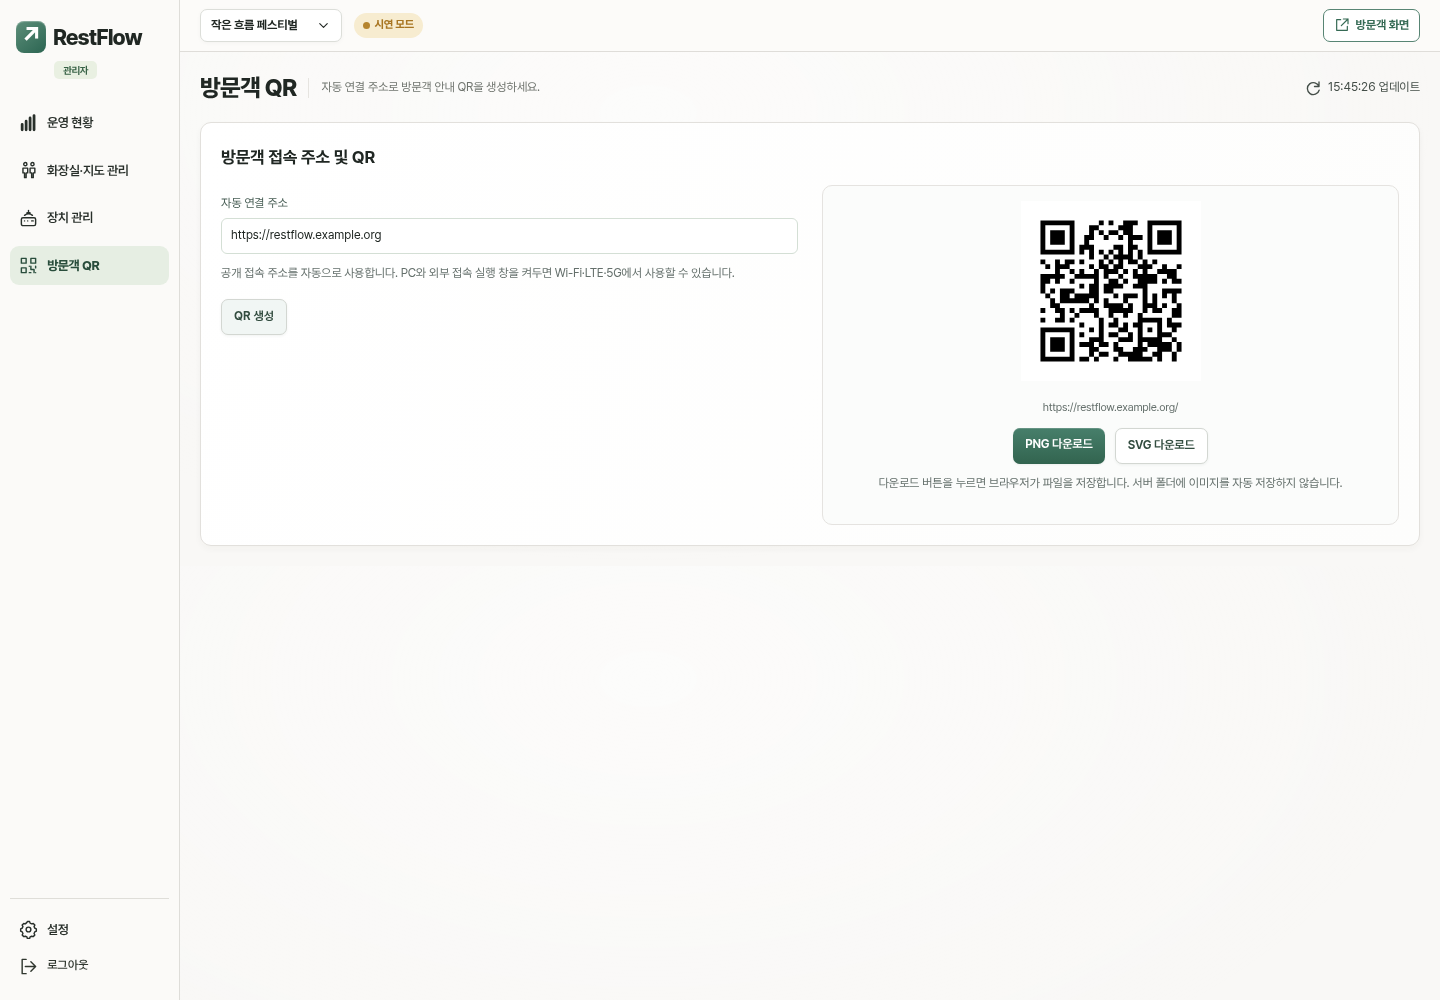
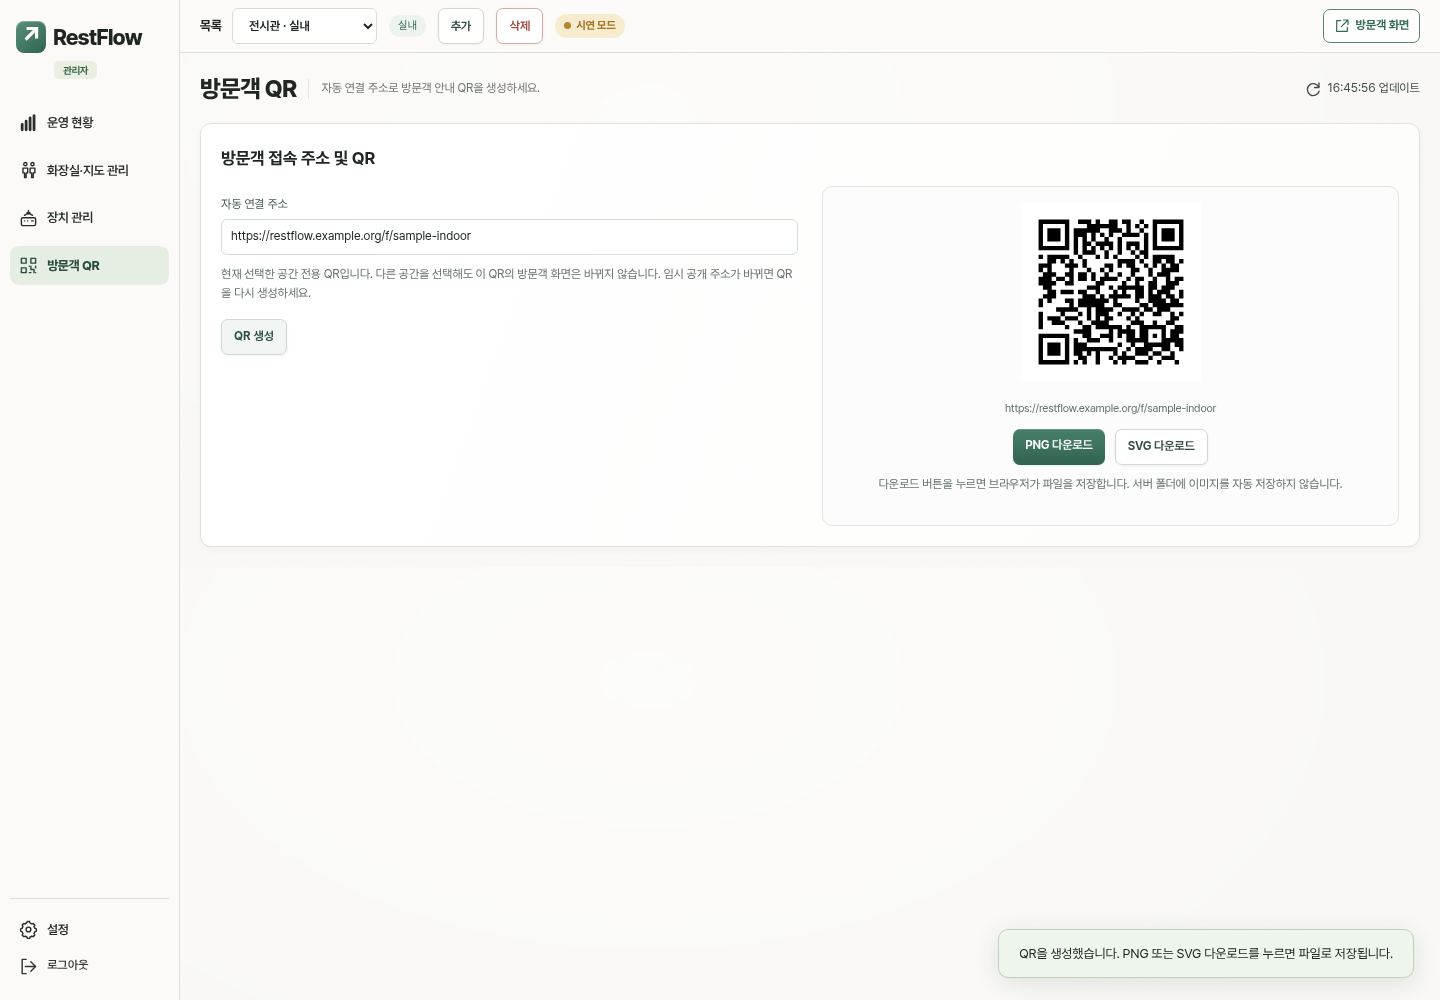
Refresh screenshots for spaces and indoor outdoor navigation

diff --git a/docs/screenshots/README.md b/docs/screenshots/README.md
@@ -1,36 +1,47 @@
 # 현재 화면 캡처
 
-갱신일: **2026-11-10 (KST)**  
-대상: `design/restflow-update-2026-11-10`
+갱신일: **2026-11-13 (KST)**
+대상: `feature/outdoor-tmap-navigation` · `2026-11-13-spaces-v1`
 
-현재 브랜치의 실제 HTML/CSS/JavaScript를 Chromium으로 실행해 촬영했습니다. 데이터와 그래프는 가상 예시이며 QR의 `restflow.example.org` 주소도 설명용입니다. 실제 센서 측정값이나 외부 접속 검증 자료가 아닙니다.
+현재 브랜치의 HTML/CSS/JavaScript를 Chromium으로 실행해 촬영했습니다. 공간·화장실·통행량·장치 상태는 가상 예시입니다. 야외 지도는 TMAP 공개 타일을 배경으로 사용하며, 마커 위치·GPS·경로 응답은 시뮬레이션입니다. 실제 위치 정확도나 도보 경로 검증 자료가 아닙니다. QR의 `restflow.example.org` 주소도 설명용입니다. 실제 API 키와 장치 토큰은 포함하지 않았습니다.
 
 | 화면 | 파일 |
 | --- | --- |
-| 방문객 PC — 추천순·추정 혼잡도 | [visitor-desktop.png](visitor-desktop.png) |
-| 방문객 모바일 | [visitor-mobile.png](visitor-mobile.png) |
-| 관리자 운영 현황 | [admin-desktop.png](admin-desktop.png) |
-| 화장실·지도 통합 관리 | [admin-facilities.png](admin-facilities.png) |
-| 장치 관리 — 연결된 화장실 이름 | [admin-devices.png](admin-devices.png) |
-| 방문객 QR | [admin-qr.png](admin-qr.png) |
+| 관리자 운영 현황 — 실내 | [admin-desktop.png](admin-desktop.png) |
+| 화장실·지도 관리 — 실내, 지도 아래 위치 저장 바 | [admin-facilities.png](admin-facilities.png) |
+| 화장실·지도 관리 — 야외, 입구 위치 저장 바 | [admin-outdoor.png](admin-outdoor.png) |
+| 공간 추가 — 실내·야외 유형 선택 | [admin-add-space.png](admin-add-space.png) |
+| 장치 관리 | [admin-devices.png](admin-devices.png) |
+| 공간별 방문객 QR | [admin-qr.png](admin-qr.png) |
 | 관리자 설정 | [admin-settings.png](admin-settings.png) |
+| 실내 방문객 PC | [visitor-desktop.png](visitor-desktop.png) |
+| 실내 방문객 모바일 | [visitor-mobile.png](visitor-mobile.png) |
+| 야외 방문객 — 마커 선택, 길찾기 전 | [visitor-outdoor.png](visitor-outdoor.png) |
+| 야외 방문객 — 경로 표시, 경로 지우기로 전환 | [visitor-outdoor-route.png](visitor-outdoor-route.png) |
+| 야외 방문객 모바일 — 경로 표시 | [visitor-outdoor-mobile.png](visitor-outdoor-mobile.png) |
 
-## 방문객 PC
+## 공간 추가
 
-![방문객 PC](visitor-desktop.png)
+![공간 추가](admin-add-space.png)
 
-## 관리자 운영 현황
+## 실내 지도 관리
 
-![관리자 운영 현황](admin-desktop.png)
+![실내 지도 관리](admin-facilities.png)
 
-## 화장실·지도 관리
+## 야외 지도 관리
 
-![화장실·지도 관리](admin-facilities.png)
+![야외 지도 관리](admin-outdoor.png)
 
-## 장치 관리
+## 야외 방문객 길찾기 전·후
 
-![장치 관리](admin-devices.png)
+![길찾기 전](visitor-outdoor.png)
 
-## 방문객 QR
+![경로 표시](visitor-outdoor-route.png)
+
+## 실내 방문객
+
+![실내 방문객 PC](visitor-desktop.png)
+
+## 공간별 QR
 
 ![방문객 QR](admin-qr.png)
